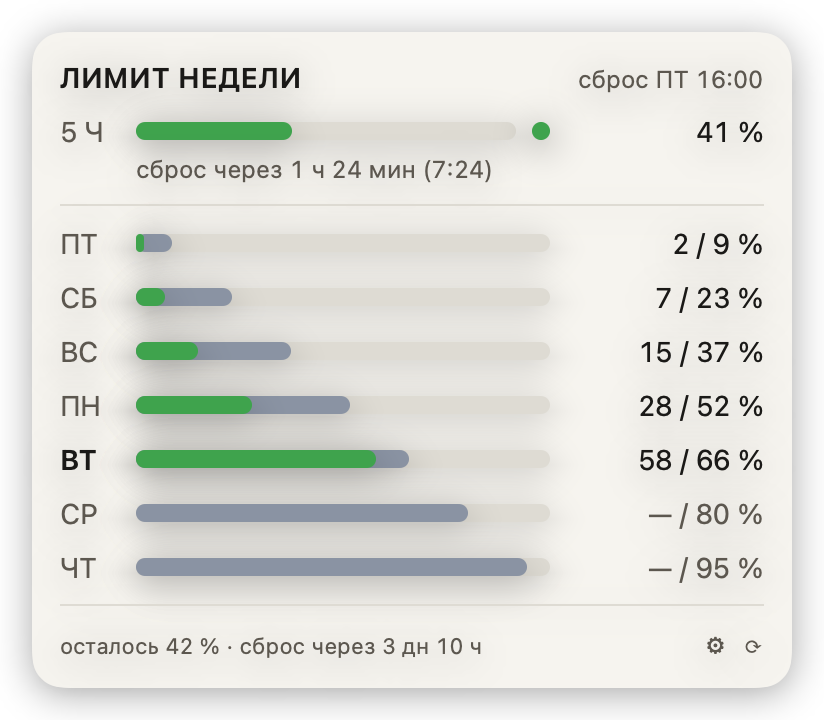
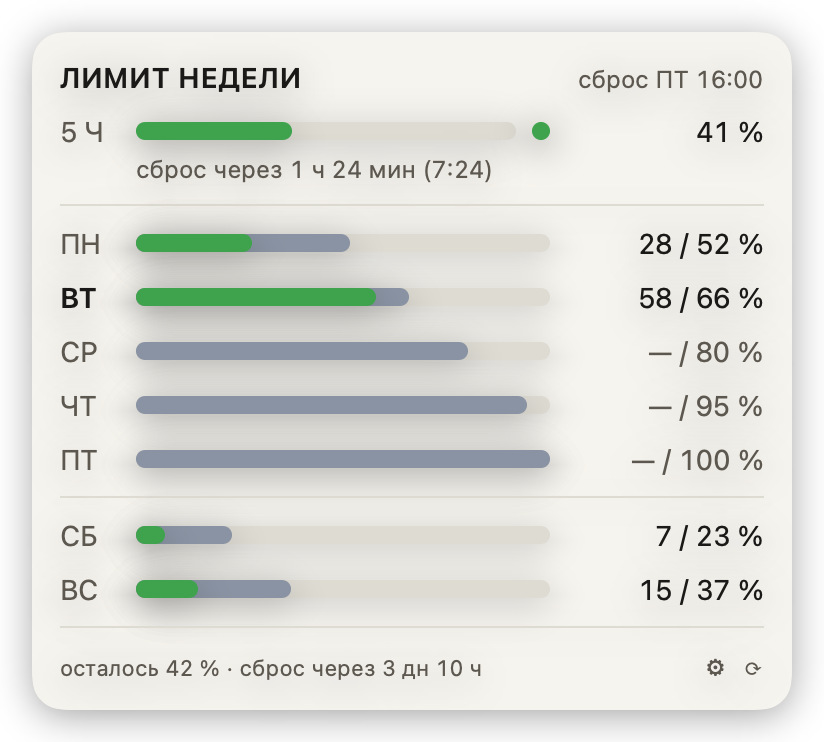
Обновил документацию и картинки под начало недели

diff --git a/docs/USAGE.md b/docs/USAGE.md
@@ -269,6 +269,20 @@ P12_PASSWORD=… ./scripts/signing-cert.sh --import ~/claudeweek-signing.p12
 - **в 16:00 (15:00 МСК) лимит сбрасывается**, окно становится новым, и пятница
   снова первая строка — уже с новыми 8,8 % на вечер.
 
+Так ряд выглядит при «Начале недели» = **День сброса**. По умолчанию же он
+идёт **с понедельника** — так, как неделя устроена у человека, а не у сервера:
+
+| ПН | ВТ | СР | ЧТ | ПТ | ─ | СБ | ВС |
+|---|---|---|---|---|---|---|---|
+| 51,6 % | 65,9 % | 80,2 % | 94,5 % | 100 % | | 23,1 % | 37,4 % |
+
+Пятнице здесь достаётся её утро: сброс стоит в конце этих суток, и план в её
+строке доходит ровно до 100 % — ряд от понедельника до пятницы читается сверху
+вниз. Суббота с воскресеньем в этом окне уже прошли (они идут сразу за
+сбросом), поэтому уходят под черту в конец ряда — их проценты не обвал плана,
+а начало той же недели. Порядок от момента не зависит: строки стоят на своих
+местах всю неделю, меняется только подсвеченная.
+
 Что из этого следует на практике:
 
 - **98 % в пятницу к 14:00 — это ровно по плану**, а не перерасход: до сброса
@@ -340,8 +354,8 @@ P12_PASSWORD=… ./scripts/signing-cert.sh --import ~/claudeweek-signing.p12
 | Запускать при входе в систему | автозапуск: заводит или сносит launchd-агента |
 | Источник данных | `auto` — официальный с падением на локальный, `official` — только сервер, `local` — только оценка по транскриптам |
 | Обновлять раз в | интервал опроса, 1–30 минут (в сеть — не чаще раза в 60 с) |
-| День / час / минута сброса | запасное недельное окно; при живом официальном источнике не используется — момент сброса приходит с сервера |
-| Таймзона | в какой зоне считать границы суток |
+| Начало недели | с какого дня идёт ряд суток на панели: «Понедельник» (по умолчанию) или «День сброса». Момент сброса это не двигает — его называет сервер; под настройкой показан тот, что придёт следующим |
+| Таймзона | в какой зоне считать границы суток и в какой показывать момент сброса |
 | Рабочий день | распорядок из списка («Рабочий день 10–18», «Длинный день 10–22», «Вечерний 11–24», «С утра до ночи 9–22», «Круглосуточно») или свои часы степперами; по ним раскладывается недельный лимит, ночью план стоит. Строка «Получается» показывает выбранное словами: «11:00 – полуночи, 13 ч в сутки» |
 
 «Как в системе» означает русский на русской macOS и английский на любой
@@ -565,7 +579,8 @@ launchd-агент не трогаются.
 
 | Ключ | По умолчанию | Смысл |
 |---|---|---|
-| `resetWeekday` / `resetHour` / `resetMinute` | `6` / `16` / `0` | запасной момент сброса — пятница 16:00 в `timeZone` ниже, то есть 15:00 МСК; при живом официальном источнике не используется |
+| `weekStart` | `monday` | с какого дня ряд суток на панели: `monday` или `reset` (день сброса). На цифры не влияет — только порядок строк |
+| `resetWeekday` / `resetHour` / `resetMinute` | `6` / `16` / `0` | запасной момент сброса — пятница 16:00 в `timeZone` ниже, то есть 15:00 МСК. В настройках этих полей нет: они идут в дело, только если сервер не отвечал ещё ни разу и кеш пуст |
 | `timeZone` | `Europe/Saratov` | таймзона окна и границ суток; пустая строка — системная. Сменили её — поправьте и `resetHour` |
 | `refreshInterval` | `300` | секунды между обновлениями, минимум 30 |
 | `provider` | `auto` | `official`, `local` или `auto` |
@@ -688,7 +703,11 @@ ClaudeWeek --verbose       подробный лог в stderr
 
 Момент сброса берётся из официального ответа (`resets_at`), а не из конфига:
 сервер знает его точно, а `resetWeekday`/`resetHour` — всего лишь догадка,
-которая нужна офлайн. План строки — накопительный, на конец её суток: факт
+которая нужна офлайн. Поэтому их и нет в настройках: поле, которое почти
+никогда ни на что не влияет, читается как сломанное — его крутят, ждут, что
+неделя сдвинется, и не понимают, почему ничего не меняется. Настройками
+двигается только порядок строк («Начало недели»), а сам момент сброса —
+серверный, и показан рядом с ней прямым текстом. План строки — накопительный, на конец её суток: факт
 в строке тоже накопительный, и сравнивать его с планом на середину значило бы
 всю неделю показывать перерасход там, где его нет.
 

diff --git a/docs/ARCHITECTURE.md b/docs/ARCHITECTURE.md
@@ -111,13 +111,23 @@ SwiftUI` — значит, расчёт просочился в UI или нао
    в полночь, иначе восемь: день сброса разрезан границами окна. Всё, что
    делит расход по суткам, спрашивает длину у `window.slotCount`, а не у
    `WeekWindow.daysInWeek` — та осталась длиной окна в сутках.
-10. **Строк на панели всегда семь** (`WeekWindow.rows(at:)`,
-   `UsageSnapshot.rows(at:)`): день сброса занимает одну — ту свою половину,
-   что идёт сейчас. До полуночи последних суток окна это вечер после сброса
-   (первая строка), дальше — утро перед следующим (последняя, 100 %). Две
-   строки с одинаковым «ПТ» и несопоставимыми процентами — то, чего здесь
-   быть не должно. Нумеруются строки сутками окна, а не позицией в ряду:
-   по `DayUsage.index` подтягивается факт и подсвечивается текущая.
+10. **Строк на панели всегда семь** (`WeekWindow.rowOrder(at:)`,
+   `UsageSnapshot.rows(at:)`): день сброса занимает одну — двух строк с
+   одинаковым «ПТ» и несопоставимыми процентами здесь быть не должно.
+   Порядок задаёт `Config.weekStart`, и только порядок: границы окна и все
+   цифры от него не зависят.
+   - `.reset` — ряд от суток сброса, как неделя катится. Показывается та
+     половина дня сброса, что идёт сейчас: до полуночи последних суток окна
+     это вечер после сброса (первая строка), дальше — утро перед следующим
+     (последняя, 100 %).
+   - `.monday` (по умолчанию) — ряд повёрнут к понедельнику, и половина дня
+     сброса выбирается не моментом, а местом в ряду: утро перед следующим
+     сбросом, чтобы план дорастал до 100 % в его строке. Сутки, прошедшие до
+     понедельника, встают в конец ряда — панель отделяет их чертой.
+   Нумеруются строки сутками окна, а не позицией в ряду: по `DayUsage.index`
+   подтягивается факт. Текущую строку ищет `WeekWindow.highlightedRow(at:)` —
+   в день сброса его половина может не попасть в ряд, и «сегодня»
+   подсвечивается по дню недели.
 11. **План суток считается временем, а не их номером**
    (`planPercent(forDay:)` зовёт `planPercent(at:)`). Иначе обрезанные
    сутки получили бы долю полных, а ряд не сошёлся бы к 100 % в момент сброса.

diff --git a/CHANGELOG.md b/CHANGELOG.md
@@ -16,6 +16,24 @@
 
 ## [Не выпущено]
 
+### Добавлено
+
+- Настройка **«Начало недели»**: ряд суток на панели идёт либо с понедельника
+  (по умолчанию), либо с дня сброса, как раньше. При понедельнике пятнице
+  достаётся её утро — план в её строке доходит ровно до 100 %, — а суббота с
+  воскресеньем, прошедшие сразу после сброса, уходят под черту в конец ряда.
+  Цифры и границы окна настройка не трогает: двигается только порядок строк.
+
+### Изменено
+
+- Полей «День / час / минута сброса» в настройках больше нет. Момент сброса
+  приходит от сервера (`resets_at`), а офлайн проецируется от последнего, им
+  же названного, — поля не влияли ни на что и читались как сломанные: их
+  крутили, ждали, что неделя сдвинется, и не понимали, почему ничего не
+  меняется. Вместо них под «Началом недели» показан настоящий момент сброса в
+  выбранной зоне. В `config.json` ключи остались: по ним строится окно, если
+  сервер не отвечал ещё ни разу и кеш пуст.
+
 ### Исправлено
 
 - Разовый сбой GitHub API больше не отменяет выпуск. Список файлов PR
